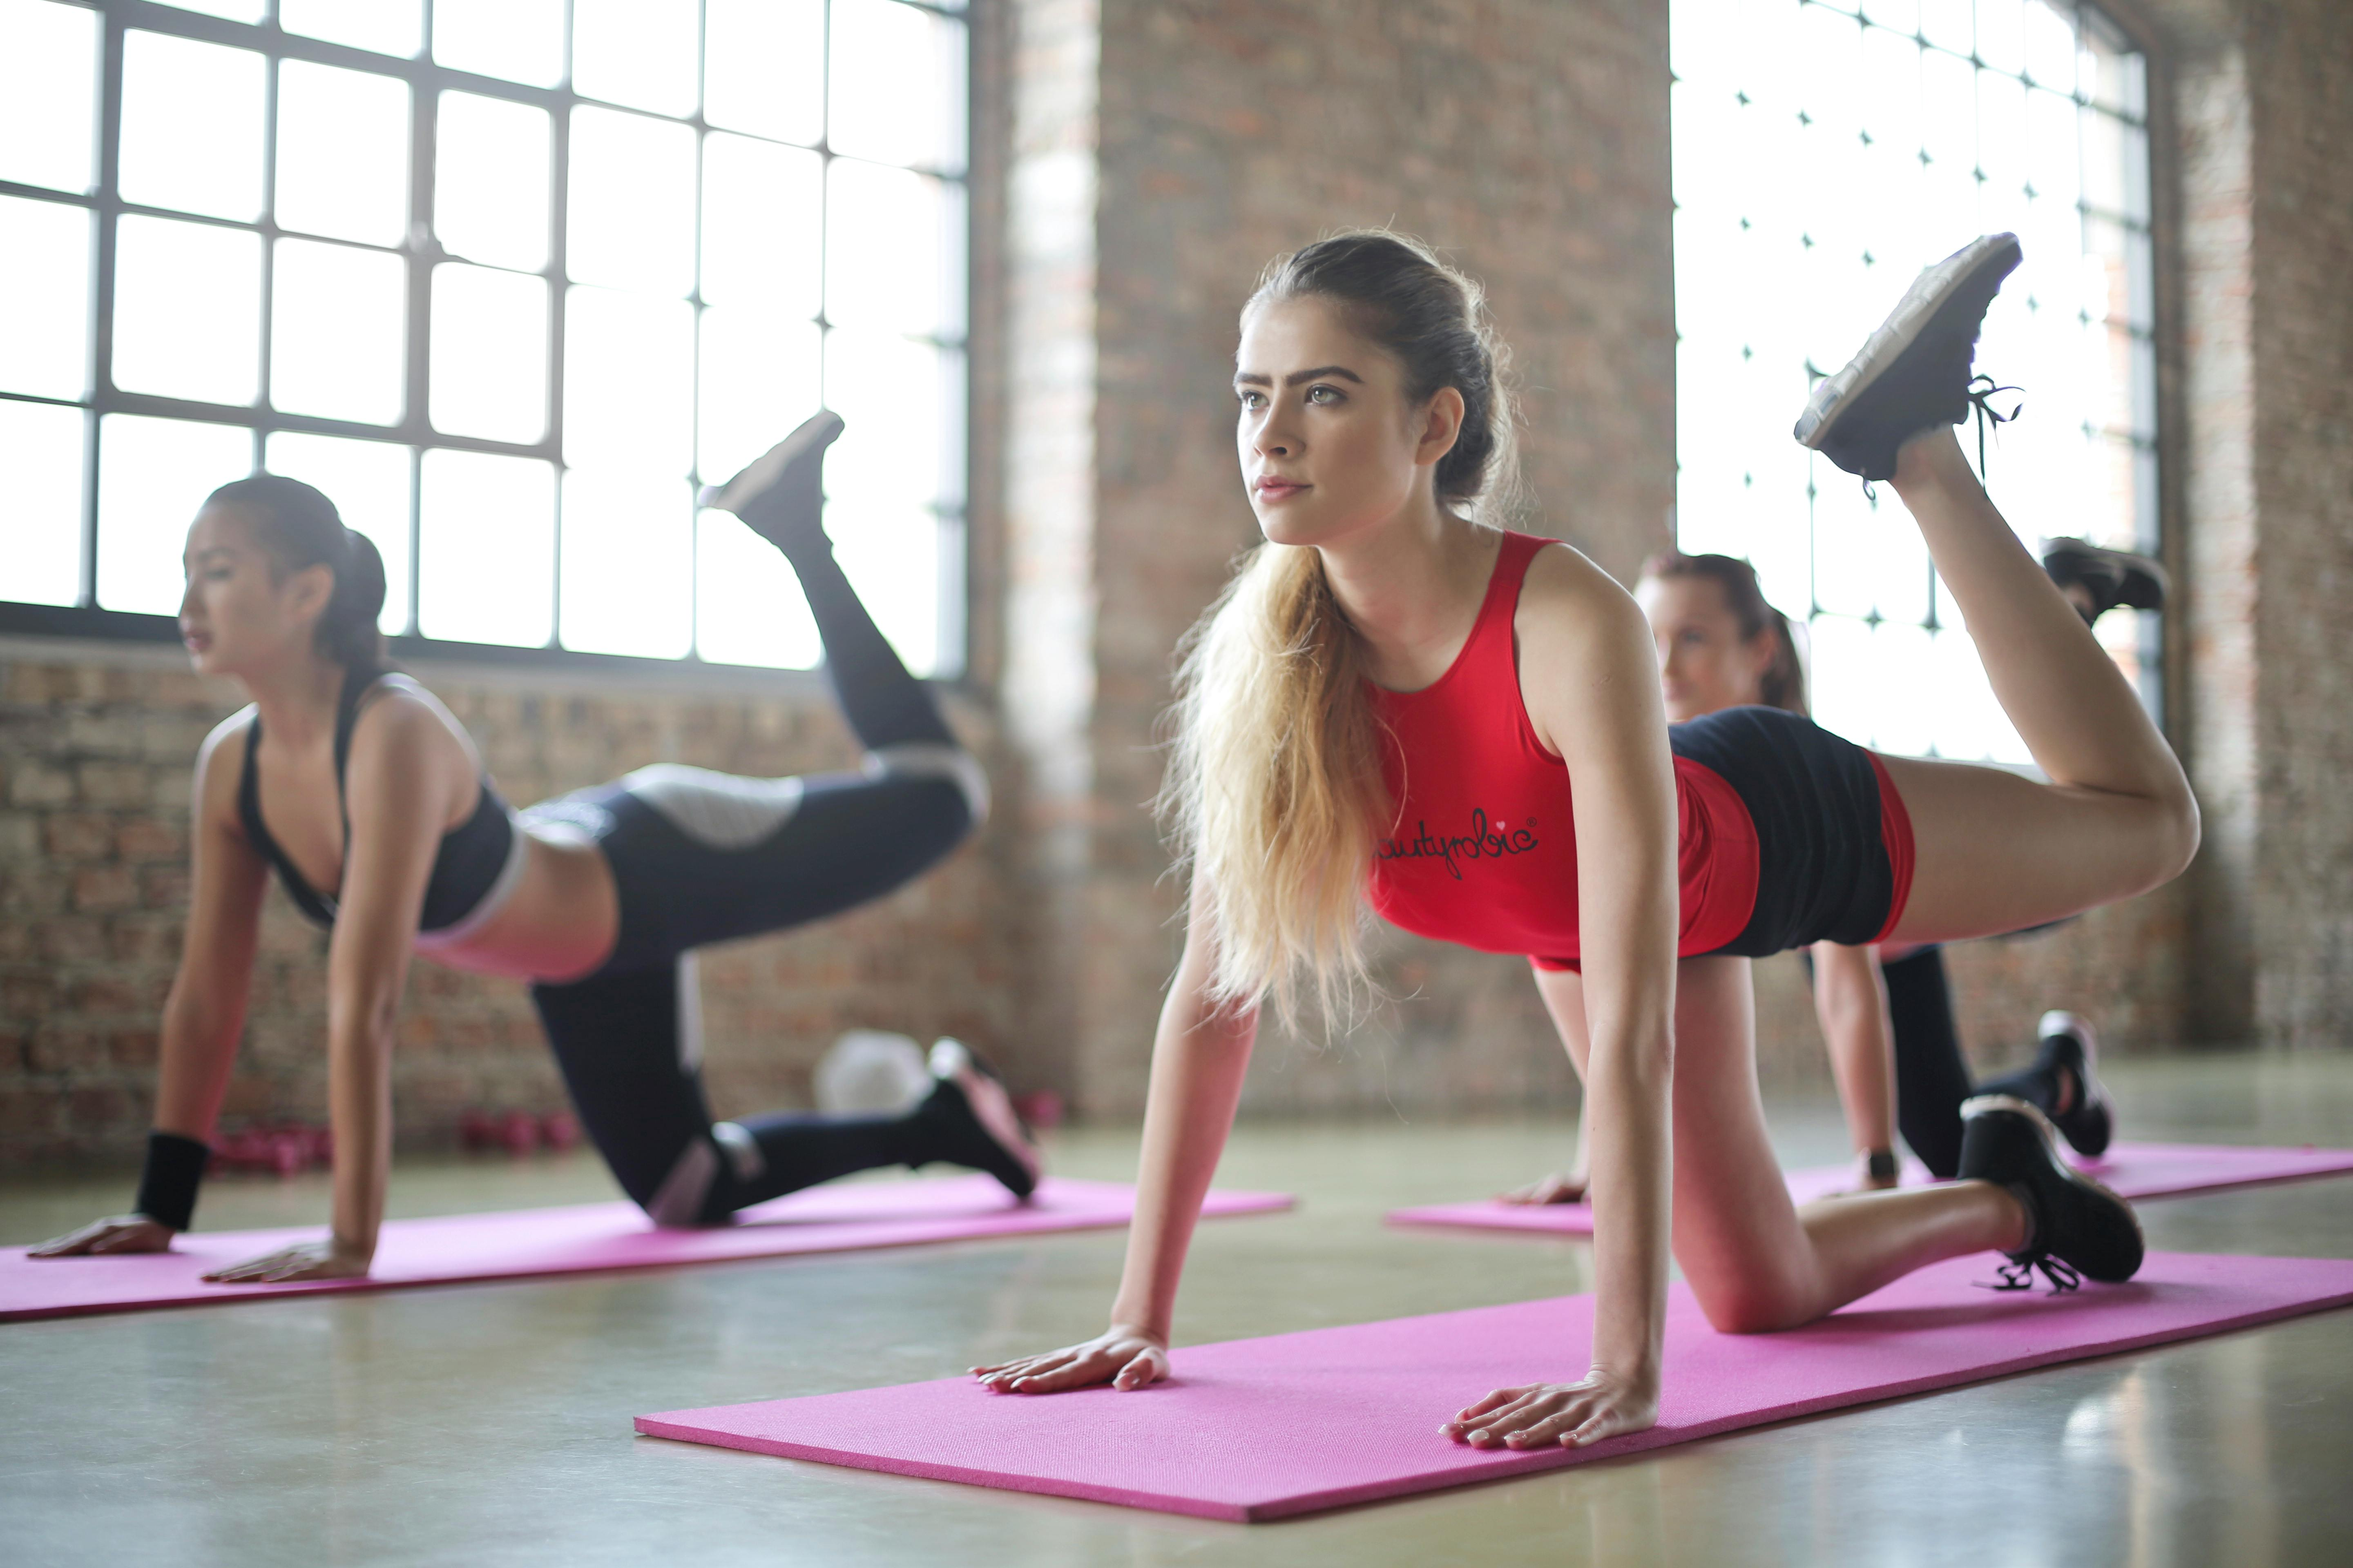
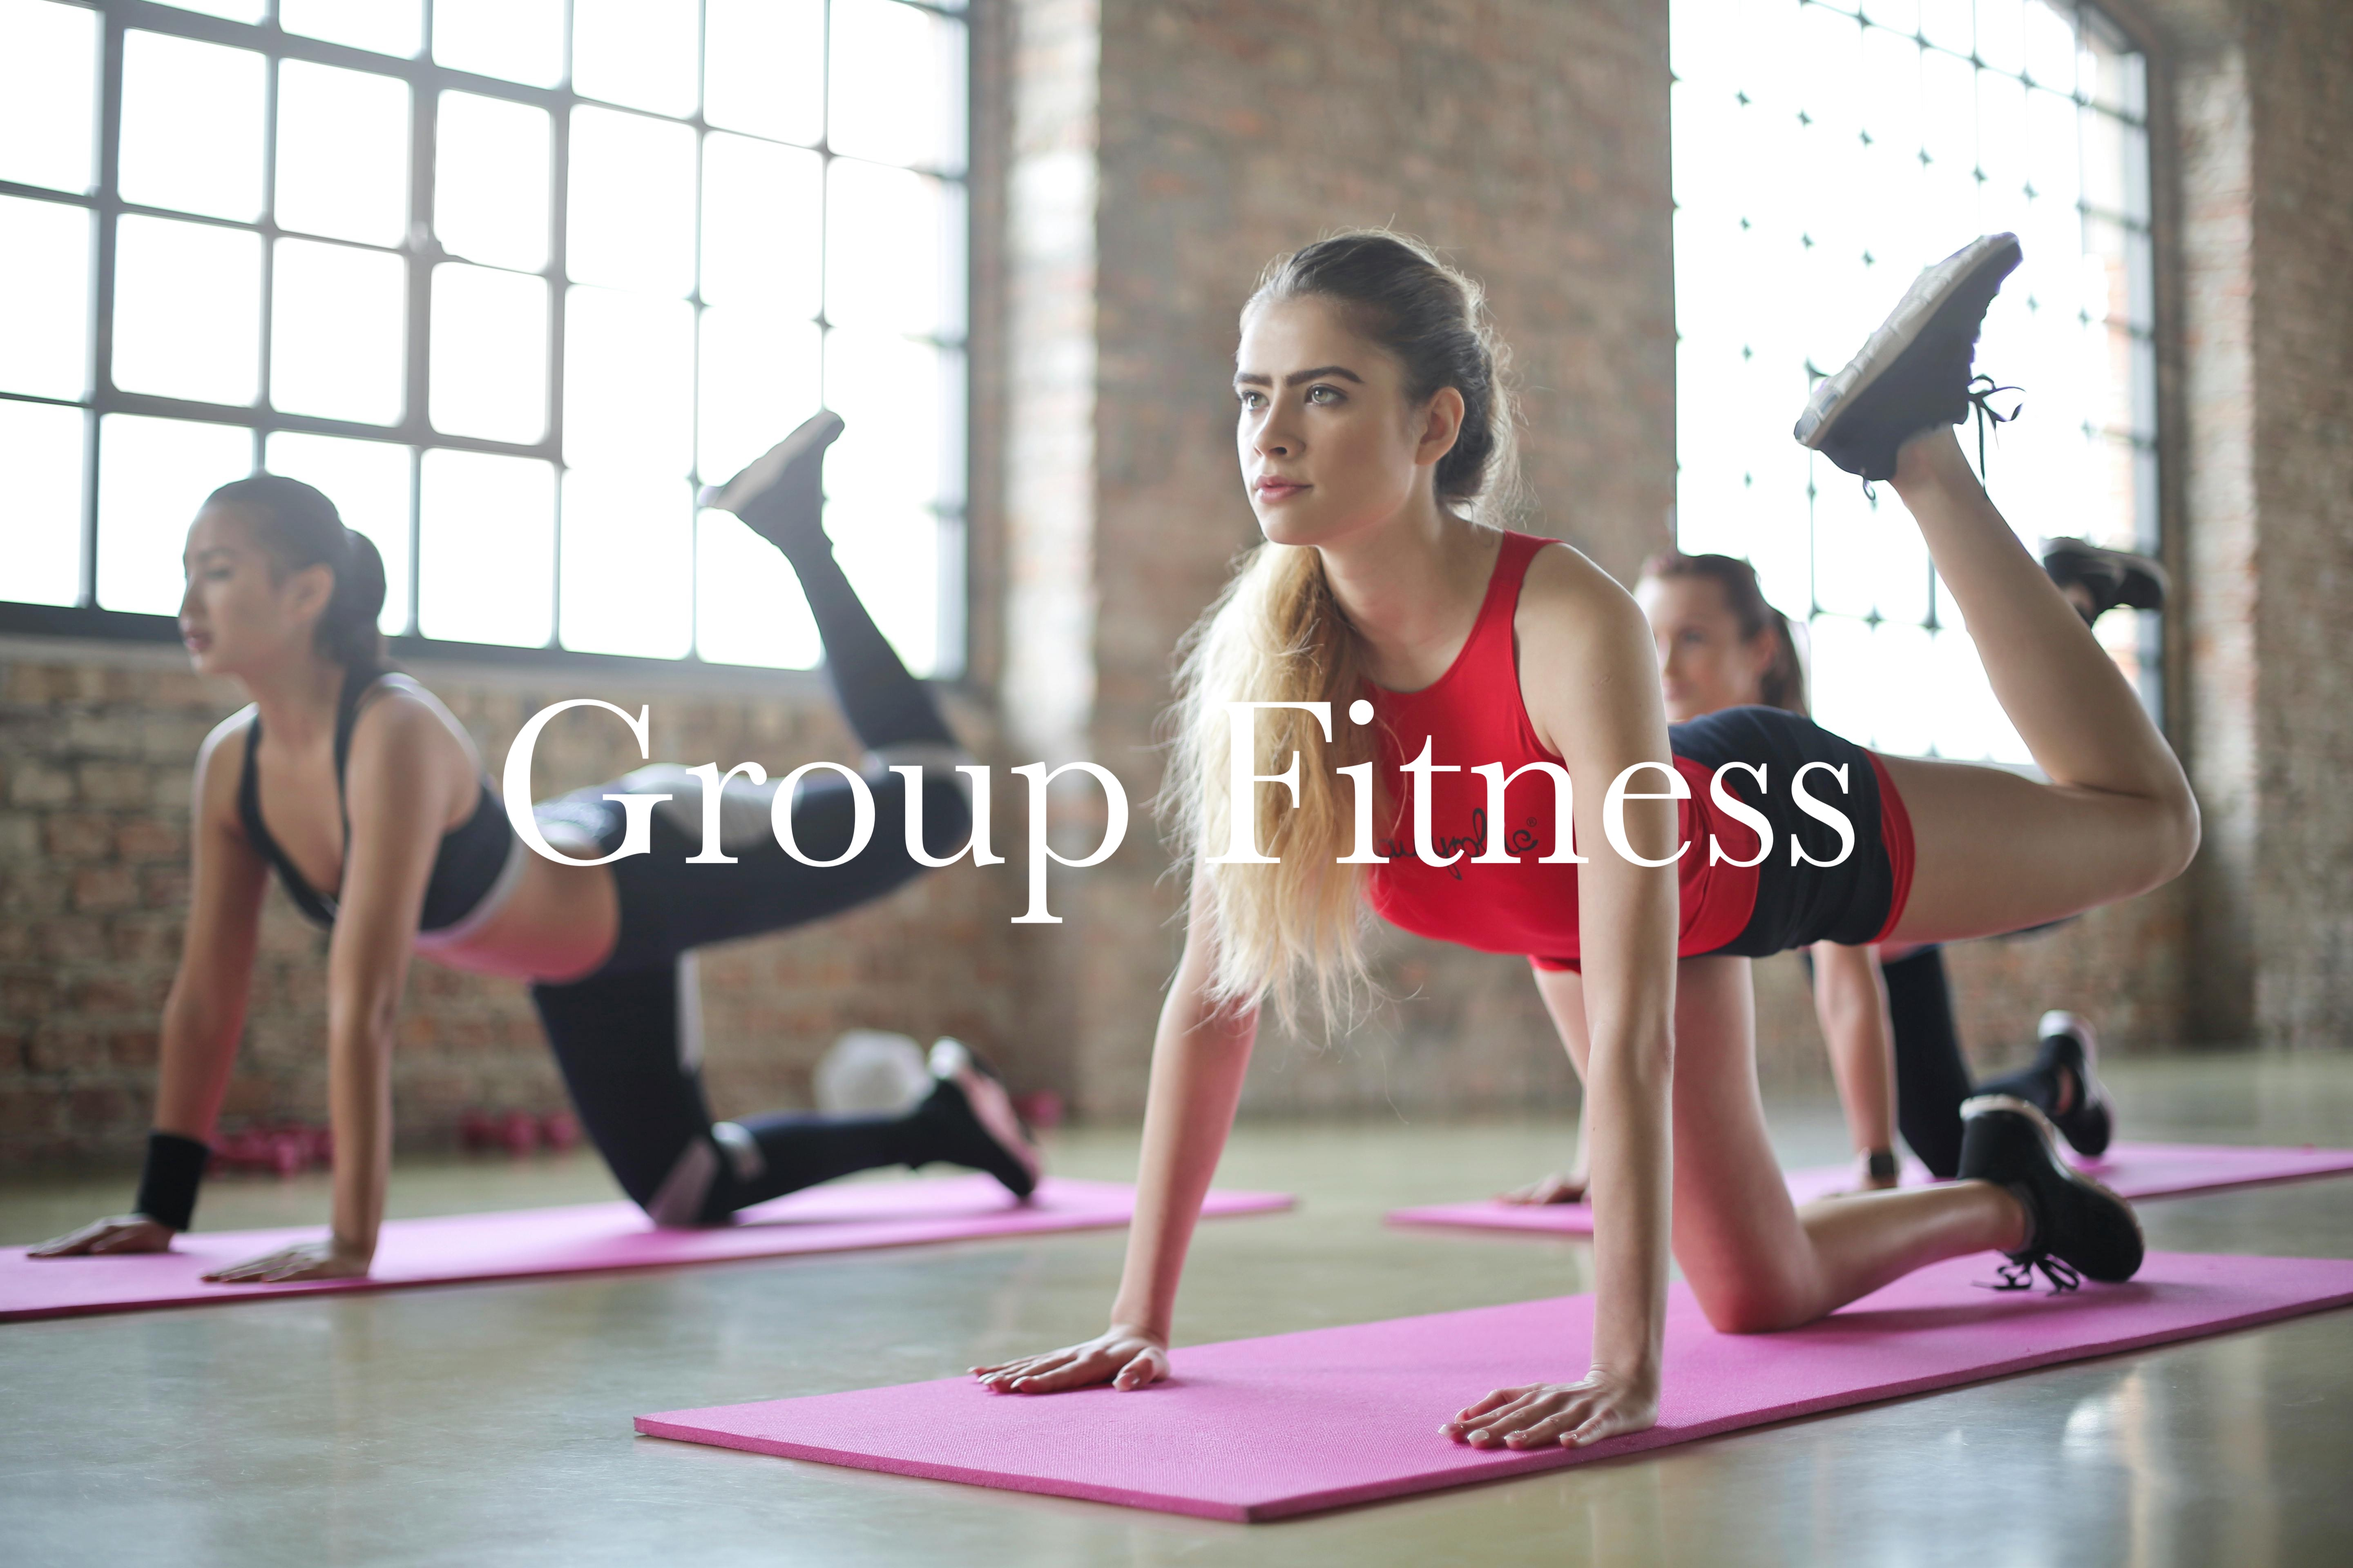
Text on images
Added text descriptions onto each of the home page images describing different aspects of the gym. Also, fixed the name of one to validate without issue.

Changed region(s): [[0.1875, 0.4375, 0.7812, 0.5938]]

diff --git a/index.html b/index.html
@@ -26,6 +26,14 @@
             </nav>
         </div>
         <header>Fit for Fun Fitness Club</header>
+        <img src="Legpress.jpg" alt="Leg Press" class="Homeimages" />
+        <img src="Kettleballs.jpg" alt="Kettleballs and Free Weights" class="Homeimages" />
+        <img src="Groupfitness.jpg" alt="Group Fitness Classes" class="Homeimages" />
+        <img src="PunchingBags.jpg" alt="Punching Bags" class="Homeimages" />
+        <img src="Ropes.jpg" alt="Ropes" class="Homeimages" />
+        <img src="Trainers.jpg" alt="First Class Trainers" class="Homeimages" />
+        <img src="Treadmill.jpg" alt="Cardio Equipment" class="Homeimages" />
+        <img src="Yoga.jpg" alt="Yoga Courses" class="Homeimages" />
         <footer>
             &copy; Elizabeth Sherwood 2024
         </footer>

diff --git a/styles.css b/styles.css
@@ -49,6 +49,9 @@ footer {
     margin: 1%;
 }
 
+.Homeimages {
+    width: 300px;
+}
 /*  =============
     Table Styles:
     =============
